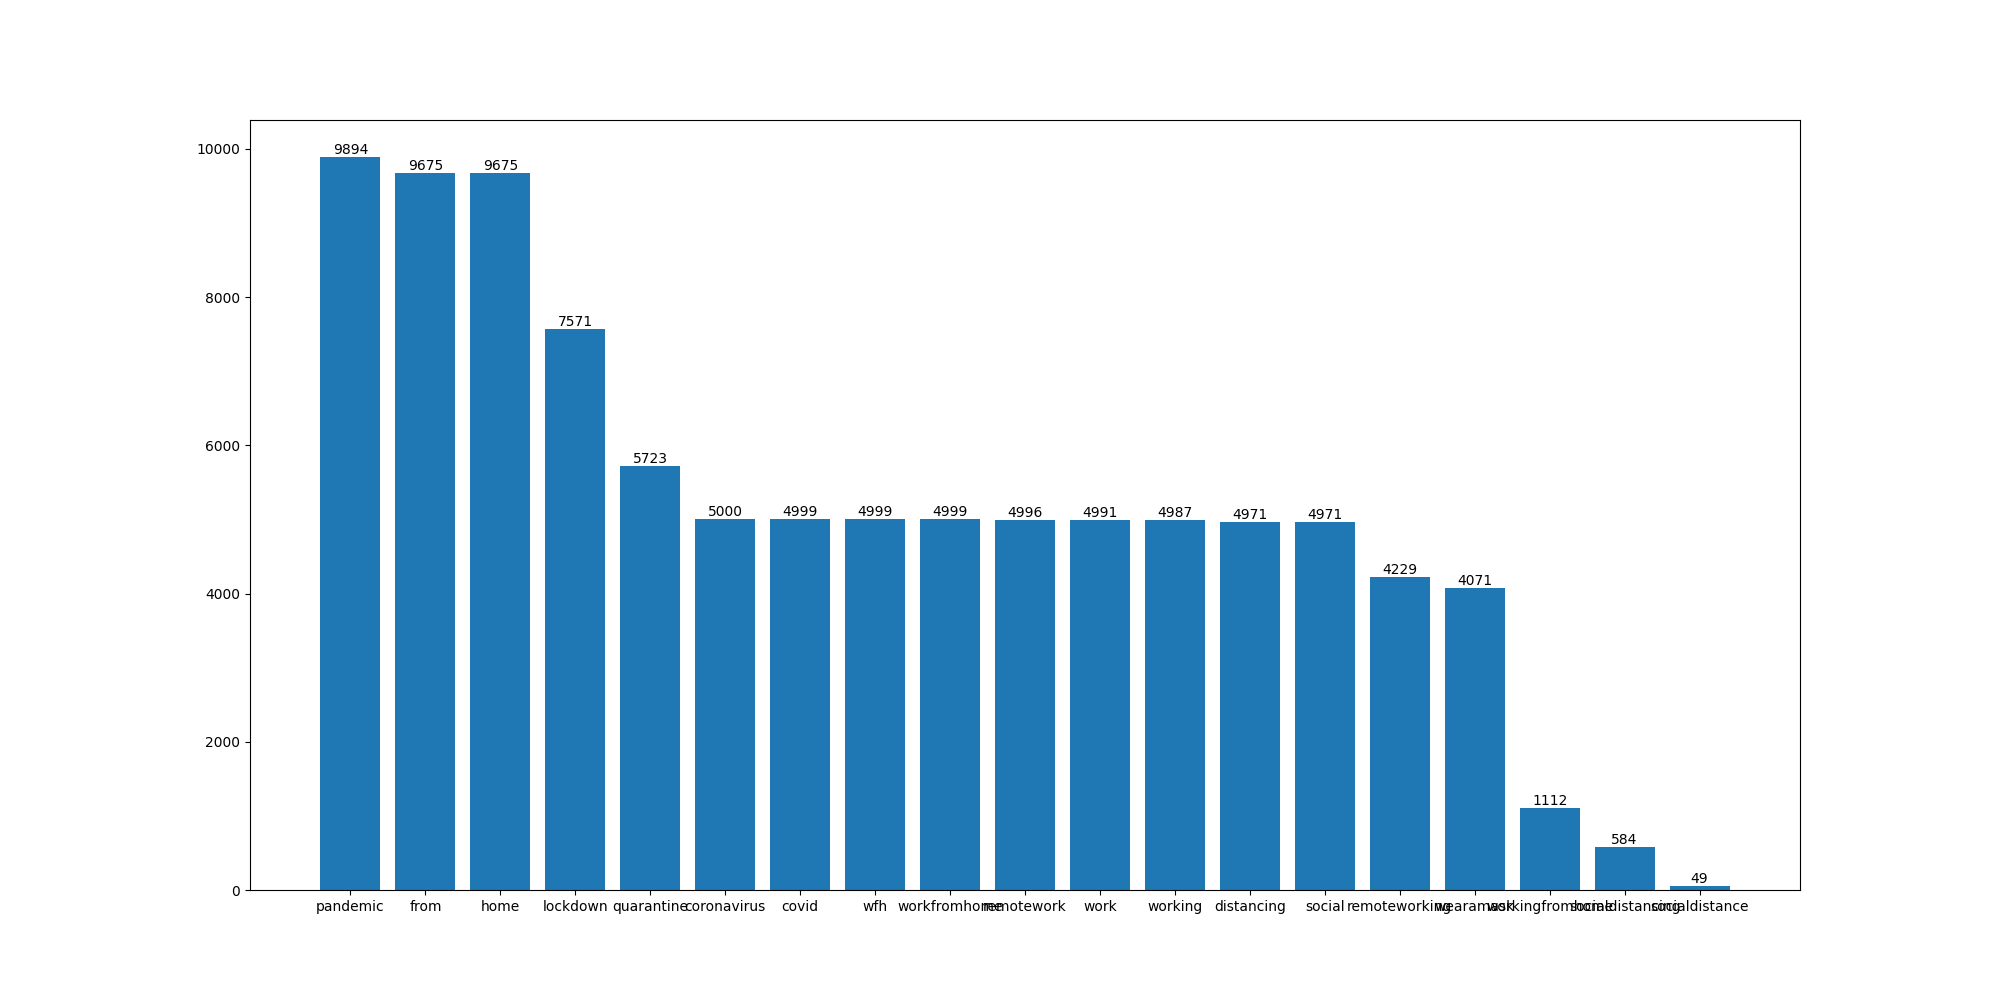
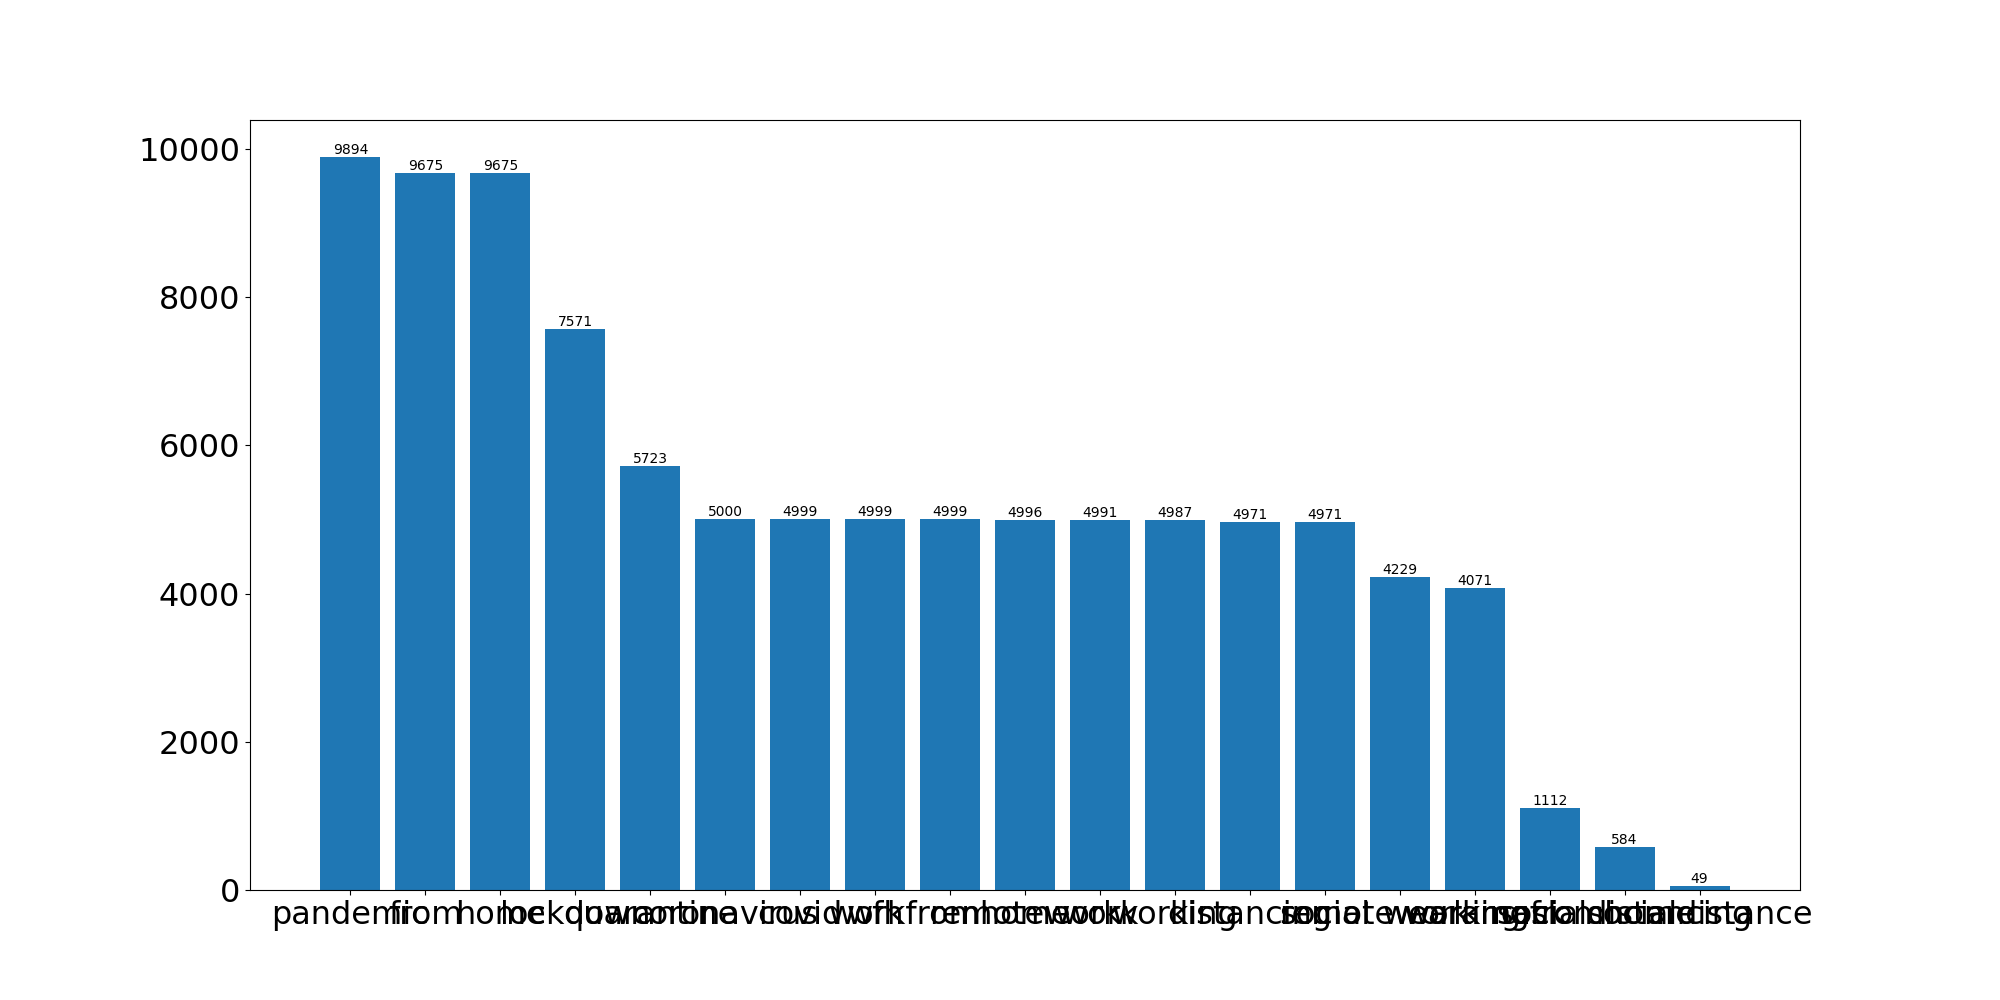
Change font size

diff --git a/ui/plot_utils.py b/ui/plot_utils.py
@@ -92,6 +92,7 @@ def draw_count_bar_chart(json_record, fig_save_path=None):
 
     fig, ax = plt.subplots(figsize=(20, 10), dpi=100)
     plt.bar(keywords, counts, tick_label=keywords)
+    plt.tick_params(labelsize=23)
 
     # 显示数据标签
     for a, b in zip(keywords, counts):
@@ -133,6 +134,7 @@ def draw_sentiment_pie_chart(json_record, fig_save_path=None):
         autopct='%.2f%%'  # 格式化输出百分比
     )
     plt.legend(loc='best')
+    plt.tick_params(labelsize=23)
 
     if fig_save_path is not None:
         plt.savefig(fig_save_path)
